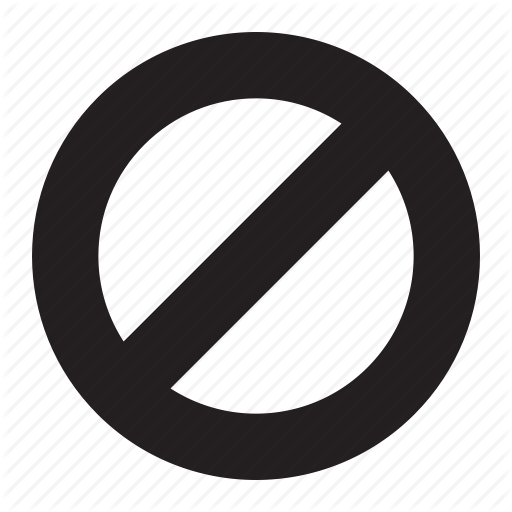
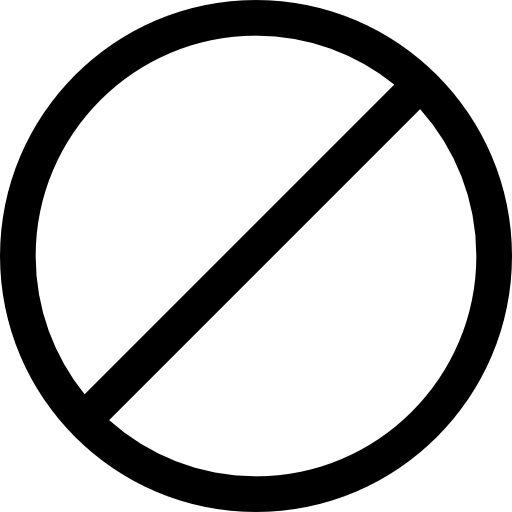
add animation for 2 pages
1. change the like/block icon to shirley's version
2. now you can hover on a movie to see the buttons for both3 versions: mobile version, ipad pro version and desktop version

diff --git a/src/Styles/Liked_Blocked_Page.css b/src/Styles/Liked_Blocked_Page.css
@@ -1,14 +1,17 @@
 /* --------------- common part ------------------ */
-.operator {
+.LBoperator {
     margin-top: 1vh;
     margin-bottom: 1vh;
-    display: flex;
+    /* display: flex; */
     flex-direction: row;
     justify-content: space-around;
-    /* background-color: red; */
+    width: 100%;
+    position: absolute;
+    top: 14vw;
+    display: none;
 }
 
-.operator img {
+.LBoperator img {
     width: 1.5vw;
     height: 1.5vw;
 }
@@ -23,23 +26,38 @@
 }
 
 .singleLikedMovie {
-    /* margin: 3vh 1vw; */
     margin-top: 3vh;
     margin-left: 1vw;
     margin-right: 1vw;
     flex-basis: 10vw;
-    /* height: 15vw; */
     height: 18vw;
 
     display: flex;
     flex-direction: column;
-    /* border: 2px solid red; */
+    position: relative;
 }
 
 .singleLikedMovie > img {
     width: 10vw;
-    height: 15vw;
+    height: 16vw;
     box-shadow: 0.5vw 0.5vh 10px gray;
+
+    transition: All 0.2s ease-in-out;
+    -webkit-transition: All 0.2s ease-in-out;
+    -moz-transition: All 0.2s ease-in-out;
+    -o-transition: All 0.2s ease-in-out;
+}
+
+.singleLikedMovie:hover > img {
+    transform: translate(0, -2vw);
+    -webkit-transform: translate(0, -2vw);
+    -moz-transform: translate(0, -2vw);
+    -o-transform: translate(0, -2vw);
+    -ms-transform: translate(0, -2vw);
+}
+
+.singleLikedMovie:hover > .LBoperator {
+    display: flex;
 }
 
 /*----------------------------- for blocked page -----------------------*/
@@ -52,96 +70,136 @@
 }
 
 .singleBlockedMovie {
-    /* margin: 3vh 1vw; */
     margin-top: 3vh;
     margin-left: 1vw;
     margin-right: 1vw;
     flex-basis: 10vw;
-    /* height: 15vw; */
     height: 18vw;
 
     display: flex;
     flex-direction: column;
+    position: relative;
 }
 
 .singleBlockedMovie > img {
     width: 10vw;
-    height: 15vw;
+    height: 16vw;
     box-shadow: 0.5vw 0.5vh 10px gray;
+
+    transition: All 0.2s ease-in-out;
+    -webkit-transition: All 0.2s ease-in-out;
+    -moz-transition: All 0.2s ease-in-out;
+    -o-transition: All 0.2s ease-in-out;
 }
+
+.singleBlockedMovie:hover > img {
+    transform: translate(0, -2vw);
+    -webkit-transform: translate(0, -2vw);
+    -moz-transform: translate(0, -2vw);
+    -o-transform: translate(0, -2vw);
+    -ms-transform: translate(0, -2vw);
+}
+
+.singleBlockedMovie:hover > .LBoperator {
+    display: flex;
+}
+
 
 /* ------------------------- mobile version ------------------------- */
 @media only screen and (max-width: 768px) {
-    .singleLikedMovie {
-        /* margin: 3vh 1vw; */
+    .LBoperator {
+        top: 58vw;
+        width: 50vw;
+    }
+    .LBoperator img {
+        width: 5vw;
+        height: 5vw;
+    }
+
+    .singleLikedMovie {        
         margin: auto;
+        margin-top: 6vh;
         flex-basis: 50vw;
-        height: auto;
-    
-        display: flex;
-        flex-direction: column;
+        height: 65vw;
     }
     .singleLikedMovie > img {
         width: 50vw;
         height: 65vw;
-        box-shadow: 0.5vw 0.5vh 10px gray;
     }
+    .singleLikedMovie:hover > img {
+        transform: translate(0, -5vh);
+        -webkit-transform: translate(0, -5vh);
+        -moz-transform: translate(0, -5vh);
+        -o-transform: translate(0, -5vh);
+        -ms-transform: translate(0, -5vh);
+    }
+
     .singleBlockedMovie {
-         /* margin: 3vh 1vw; */
-         margin: auto;
-         flex-basis: 50vw;
-         height: auto;
-     
-         display: flex;
-         flex-direction: column;
+        margin: auto;
+        margin-top: 6vh;
+        flex-basis: 50vw;
+        height: 65vw;
     }
     .singleBlockedMovie > img {
         width: 50vw;
         height: 65vw;
-        box-shadow: 0.5vw 0.5vh 10px gray;
     }
-    .operator img {
-        width: 5vw;
-        height: 5vw;
+    .singleBlockedMovie:hover > img {
+        transform: translate(0, -5vh);
+        -webkit-transform: translate(0, -5vh);
+        -moz-transform: translate(0, -5vh);
+        -o-transform: translate(0, -5vh);
+        -ms-transform: translate(0, -5vh);
     }
+    
 }
 
 /* ------------------------- ipad pro version ------------------------- */
 @media only screen and (max-width: 1200px) and (min-width: 769px) {
-    .singleLikedMovie {
-        /* margin: 3vh 1vw; */
-        margin-top: 3vh;
-        margin-left: 1vw;
-        margin-right: 1vw;
-        flex-basis: 25vw;
-        height: auto;
+    .LBoperator {
+        top: 36vw;
+        /* background-color: red; */
+    }
+    .LBoperator img {
+        width: 3vw;
+        height: 3vw;
+    }
     
-        display: flex;
-        flex-direction: column;
+    .singleLikedMovie {
+        margin-top: 5vh;
+        margin-left: 2vw;
+        margin-right: 2vw;
+        flex-basis: 25vw;
+        height: 40VW;
     }
     .singleLikedMovie > img {
         width: 25vw;
         height: 40vw;
-        box-shadow: 0.5vw 0.5vh 10px gray;
     }
+    .singleLikedMovie:hover > img {
+        transform: translate(0, -4vh);
+        -webkit-transform: translate(0, -4vh);
+        -moz-transform: translate(0, -4vh);
+        -o-transform: translate(0, -4vh);
+        -ms-transform: translate(0, -4vh);
+    }
+
     .singleBlockedMovie {
-        /* margin: 3vh 1vw; */
-        margin-top: 3vh;
-        margin-left: 1vw;
-        margin-right: 1vw;
+        margin-top: 5vh;
+        margin-left: 2vw;
+        margin-right: 2vw;
         flex-basis: 25vw;
-        height: auto;
-    
-        display: flex;
-        flex-direction: column;
+        height: 40VW;
     }
     .singleBlockedMovie > img {
         width: 25vw;
         height: 40vw;
-        box-shadow: 0.5vw 0.5vh 10px gray;
     }
-    .operator img {
-        width: 3vw;
-        height: 3vw;
+    .singleBlockedMovie:hover > img {
+        transform: translate(0, -4vh);
+        -webkit-transform: translate(0, -4vh);
+        -moz-transform: translate(0, -4vh);
+        -o-transform: translate(0, -4vh);
+        -ms-transform: translate(0, -4vh);
     }
 }

diff --git a/src/View/ShowBlockedMovie.js b/src/View/ShowBlockedMovie.js
@@ -20,7 +20,7 @@ const ShowBlockedMovie = (props) => {
     return (
         <div className="singleBlockedMovie">
             <img src={imgUrl} alt={movieData.id} />
-            <div className="operator">
+            <div className="LBoperator">
                 <img src="./img/delete_icon.png" alt="delete icon" onClick={handleDelete}/>
                 <img src="./img/like_icon.png" alt="like icon" onClick={handleLike}/>
                 <img src="./img/ellipsis_icon.png" alt="ellipsis icon"/>

diff --git a/src/View/ShowLikedMovie.js b/src/View/ShowLikedMovie.js
@@ -19,7 +19,7 @@ const ShowLikedMovie = (props) => {
     return (
         <div className="singleLikedMovie">
             <img src={imgUrl} alt={movieData.id} />
-            <div className="operator">
+            <div className="LBoperator">
                 <img src="./img/delete_icon.png" alt="delete icon" onClick={handleDelete}/>
                 <img src="./img/block_icon.png" alt="block icon" onClick={handleBlock}/>
                 <img src="./img/ellipsis_icon.png" alt="ellipsis icon"/>
